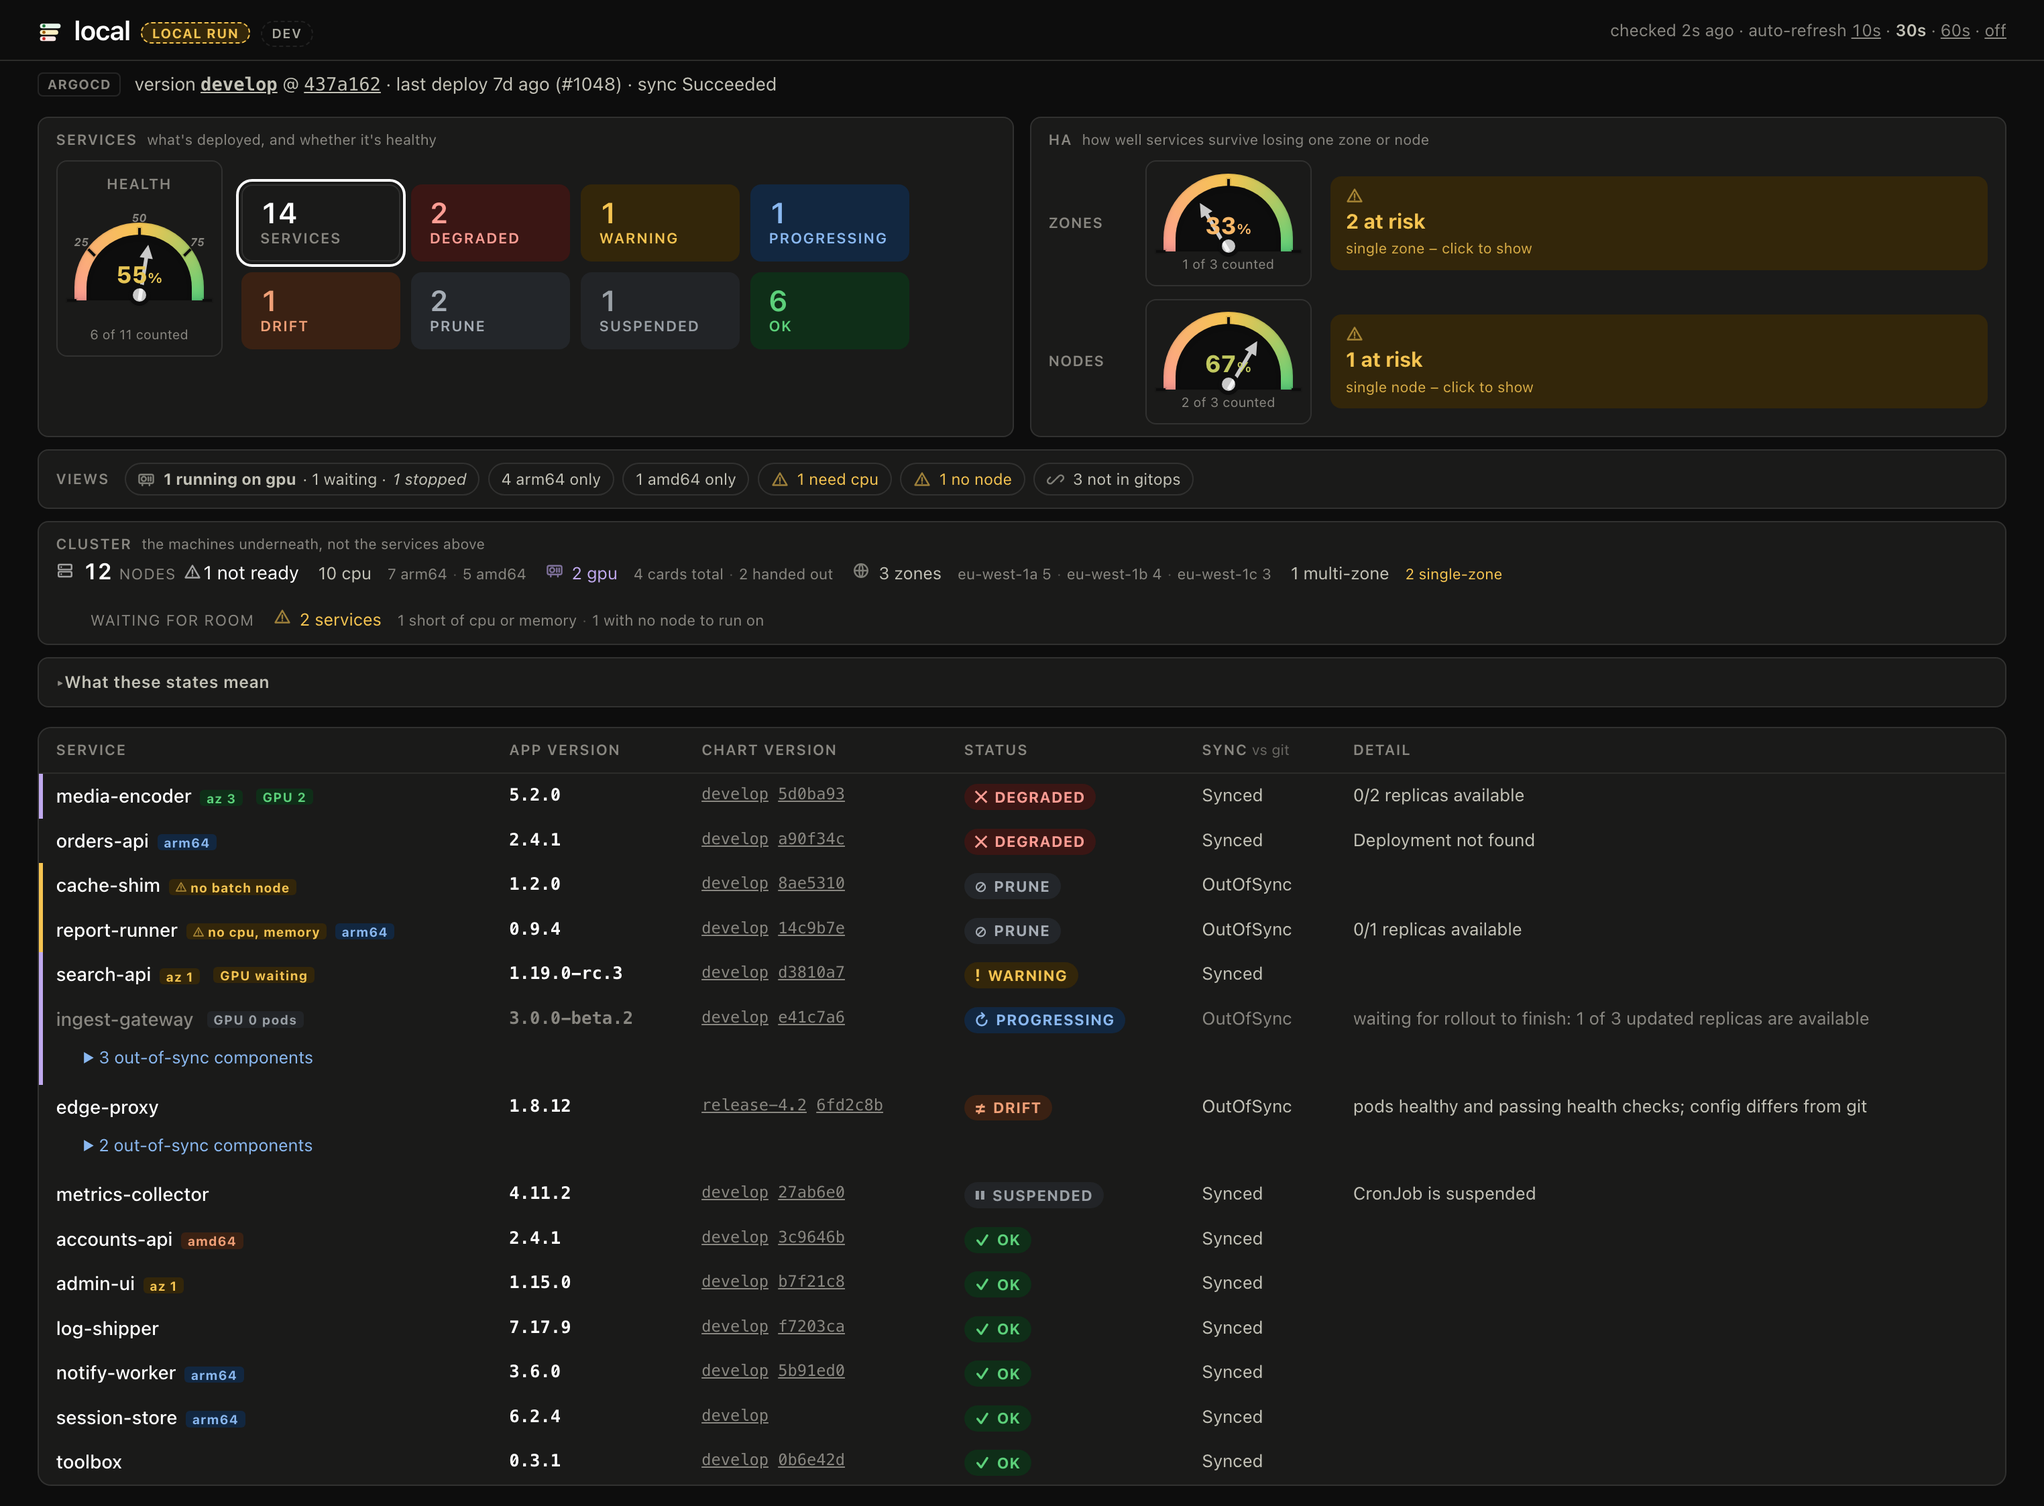
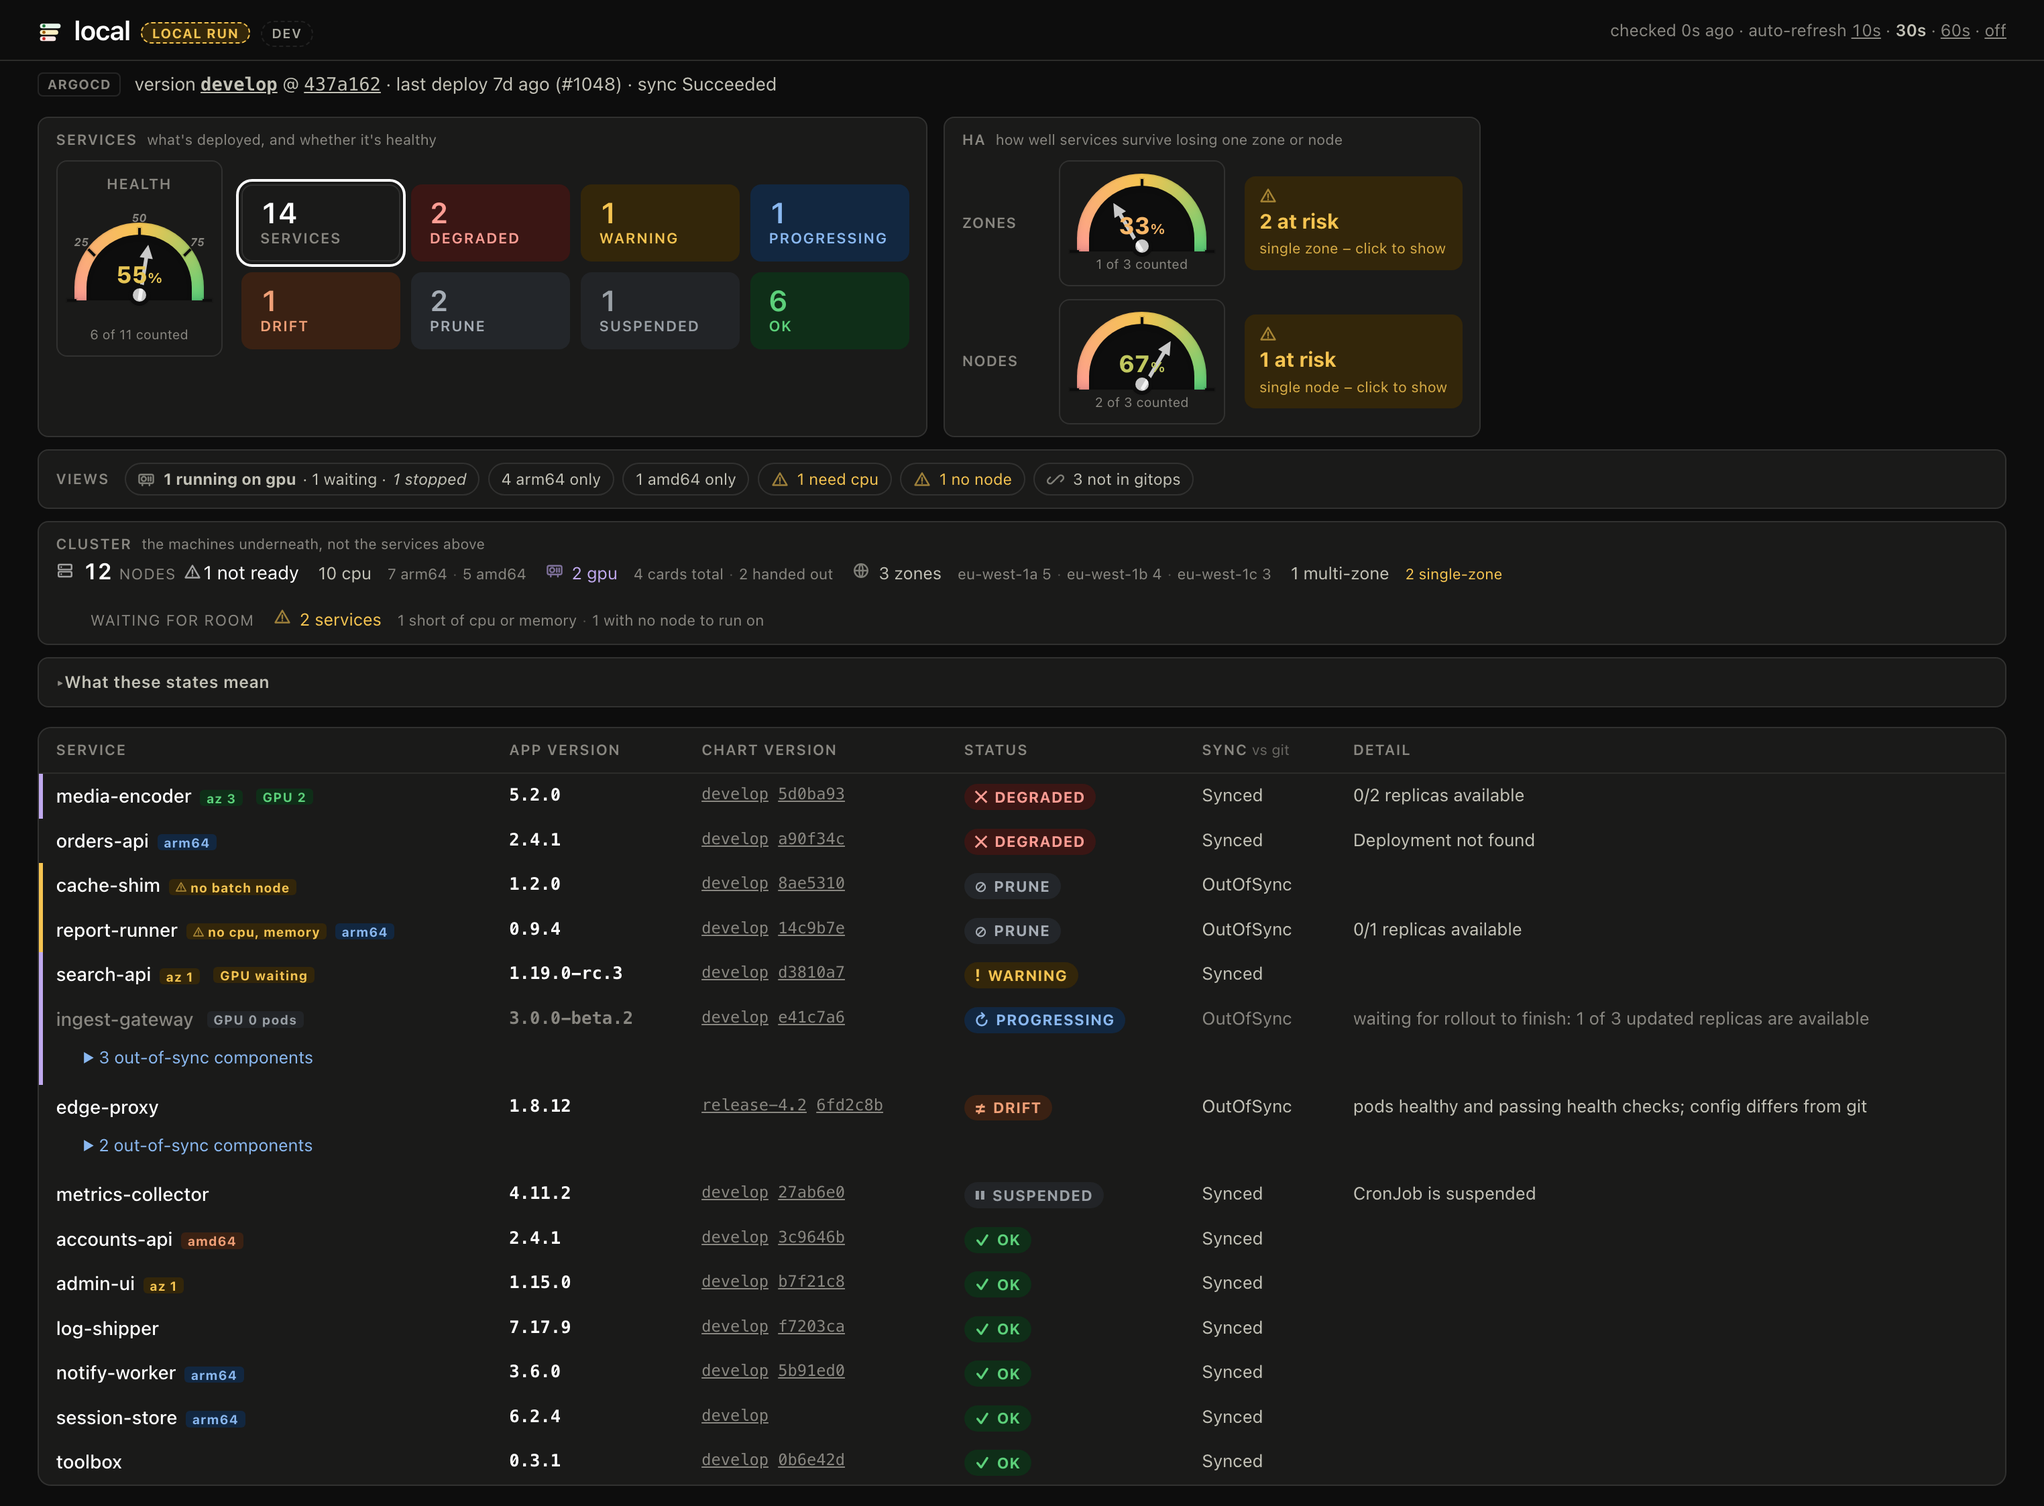
feat: redesign Health/HA layout with a bigger Health gauge
Health and HA now live inside one Services panel as two inset
sub-areas instead of two separate outer panels, each panel hugging
its own content instead of splitting the row evenly. Health's gauge
is enlarged for presentation; its needle now sweeps in from
horizontal on load/refresh via a pure-CSS keyframe animation (no JS),
respecting prefers-reduced-motion.

The at-risk indicator is now a plain .tile (t-warning/t-ok), the
same size as the Services tiles, instead of a bespoke wide box --
dropped the redundant 'click to show' caption text, kept as a
tooltip. Fixed a real bug along the way: .tile.is-on unconditionally
reset background to --surface, silently stripping a colored tile's
tint the moment it was clicked.

Changed region(s): [[0.5299, 0.0935, 0.9974, 0.2805]]

diff --git a/internal/web/templates/index.html b/internal/web/templates/index.html
@@ -117,11 +117,31 @@ h1 { font-size: 1.25rem; font-weight: 600; margin: 0; letter-spacing: -.01em;
 
 /* One bordered .panel per summary group (Services today; Availability/Security etc.
    can join as sibling .panel elements later without restructuring this row). */
-.panel-row { display: flex; flex-wrap: wrap; gap: .75rem; margin: .9rem 0 .35rem; }
-.panel { flex: 1 1 380px; box-sizing: border-box; background: var(--surface);
+.panel-row { display: flex; flex-wrap: wrap; justify-content: flex-start; gap: .75rem;
+             margin: .9rem 0 .35rem; }
+/* flex-grow: 0 -- panels hug their own content instead of stretching to split the row
+   evenly. Two narrow panels sit next to each other with leftover row space after the
+   last one, not distributed as dead space inside each. min-width is the mobile floor;
+   flex-shrink still lets a panel narrow (then wrap) on a small viewport. */
+.panel { flex: 0 1 auto; min-width: 380px; box-sizing: border-box; background: var(--surface);
          border: 1px solid var(--ring); border-radius: 8px; padding: .55rem .8rem; }
+/* Health and HA are both about services, so they live inside one Services panel as
+   two sub-areas. Each gets its own inset box rather than a divider line between them:
+   a border-left reads fine side by side but dangles disconnected once a narrow
+   viewport wraps them onto separate rows, where a box still reads correctly either
+   way. --plane (the page background, not --surface's card tone) is what .hd-mask
+   already uses for the same "recessed within this card" look. */
+.areas { display: flex; flex-wrap: wrap; gap: .9rem; margin-top: .5rem; }
+.area {
+  display: flex; flex-direction: column;
+  background: var(--plane); border: 1px solid var(--ring); border-radius: 8px;
+  padding: .55rem .8rem;
+}
 .tiles-row { display: flex; align-items: stretch; justify-content: flex-start; gap: .9rem;
              margin-top: .45rem; }
+/* Health's gauge is now taller (gauge-lg) than the tile stack beside it -- stretch
+   would just pad blank space under the tiles instead of aligning them to its top. */
+.tiles-row.is-top { align-items: flex-start; }
 .tiles-stack { display: flex; flex-direction: column; gap: .5rem; margin: 1.1rem 0 .35rem; }
 .tiles { display: flex; flex-wrap: wrap; gap: .5rem; }
 .tile {
@@ -195,12 +215,6 @@ h1 { font-size: 1.25rem; font-weight: 600; margin: 0; letter-spacing: -.01em;
   background: var(--surface);
   border: 1px solid var(--ring);
 }
-.gauge .hd-title {
-  /* Matches .cap-head/.views-lab exactly: this is the same "eyebrow label" role as
-     CLUSTER and VIEWS, not a one-off style. */
-  font-size: .68rem; font-weight: 600; letter-spacing: .07em; text-transform: uppercase;
-  color: var(--muted); margin-bottom: .3rem;
-}
 .gauge .hd-face {
   position: relative; width: 100%; height: 58px;
 }
@@ -247,8 +261,18 @@ h1 { font-size: 1.25rem; font-weight: 600; margin: 0; letter-spacing: -.01em;
      translucent dark keeps contrast everywhere while staying secondary to the number. */
   background: color-mix(in srgb, var(--ink) 78%, transparent);
   transform-origin: bottom center;
-  transform: rotate(calc(var(--pct) * 1.8deg - 90deg));
+  /* Sweeps from horizontal up to --pct's angle rather than snapping there: "to" reads
+     the same var()/calc() the static angle would, so each gauge animates toward its
+     own value with no JS to set it after the fact. `both` holds that end frame. */
+  animation: hd-sweep .8s cubic-bezier(.22, 1, .36, 1) both;
   filter: drop-shadow(0 2px 2px rgba(0,0,0,.3));
+}
+@keyframes hd-sweep {
+  from { transform: rotate(-90deg); }
+  to   { transform: rotate(calc(var(--pct) * 1.8deg - 90deg)); }
+}
+@media (prefers-reduced-motion: reduce) {
+  .gauge .hd-needle { animation: none; transform: rotate(calc(var(--pct) * 1.8deg - 90deg)); }
 }
 .gauge .hd-pivot {
   position: absolute; left: 50%; bottom: -1px; width: 10px; height: 10px;
@@ -280,33 +304,51 @@ h1 { font-size: 1.25rem; font-weight: 600; margin: 0; letter-spacing: -.01em;
 .gauge.is-unknown .hd-needle, .gauge.is-unknown .hd-pivot { background: var(--muted); filter: none; }
 .gauge.is-unknown .hd-num { color: var(--muted); }
 
-/* The gauge's own percentage only says how many are at risk, not which -- risk-link
-   is what actually answers that, by filtering the table to those exact rows. */
-.risk-box { flex: 1 1 auto; display: flex; align-items: center; min-width: 0; }
-a.risk-link {
-  display: flex; flex-direction: column; gap: .1rem;
-  padding: .5rem .7rem; border-radius: 8px; width: 100%; box-sizing: border-box;
-  background: var(--warn-bg); color: var(--warn-fg);
-  text-decoration: none; font-weight: 700; font-size: .95rem;
-}
-a.risk-link:hover { text-decoration: none; box-shadow: 0 0 0 1px var(--warn-fg); }
-a.risk-link.is-on { outline: 2px solid var(--warn-fg); outline-offset: 2px; }
-a.risk-link .risk-sub { font-weight: 400; font-size: .68rem; text-transform: none;
-                        letter-spacing: 0; opacity: .85; }
-.risk-ok { color: var(--muted); font-size: .82rem; display: flex; align-items: center; gap: .35rem; }
+/* Health is the one gauge worth a bigger presentation -- it is the headline number
+   for the whole page, not one of several equal-weight spread checks. Every value
+   below is the base gauge's own value scaled by the same ~1.6x, so the geometry
+   (arc radius, needle length, mask insets) stays proportional rather than drifting. */
+.gauge.gauge-lg { width: 200px; padding: .75rem 1.05rem .7rem; }
+.gauge.gauge-lg .hd-face { height: 92px; }
+.gauge.gauge-lg .hd-arc { border-radius: 173px 173px 0 0; }
+.gauge.gauge-lg .hd-tick { height: 86px; }
+.gauge.gauge-lg .hd-tick::after { height: 11px; }
+.gauge.gauge-lg .hd-scale { top: -16px; margin-left: -9px; width: 18px; font-size: .62rem; }
+.gauge.gauge-lg .hd-mask { left: 14px; right: 14px; top: 14px; border-radius: 147px 147px 0 0; }
+.gauge.gauge-lg .hd-needle { width: 16px; height: 67px; margin-left: -8px; }
+.gauge.gauge-lg .hd-pivot { width: 16px; height: 16px; margin-left: -8px; }
+.gauge.gauge-lg .hd-num { bottom: 18px; font-size: 1.75rem; }
+.gauge.gauge-lg .hd-cap { font-size: .75rem; margin-top: .25rem; }
+
+/* The gauge's own percentage only says how many are at risk, not which -- the at-risk
+   tile is what actually answers that, by filtering the table to those exact rows.
+   It is a plain .tile (t-warning/t-ok), the same size as the Services ones, not a
+   bespoke wide box: consistent sizing beats a second, differently-shaped component
+   for what is still just "a number with a filter behind it". */
 .ha-rows { display: flex; flex-direction: column; gap: .6rem; margin-top: .45rem; }
-.ha-rows .tiles-row { margin-top: 0; }
-.spread-lab { flex: none; width: 3.6rem; align-self: center;
-              font-size: .68rem; font-weight: 600; letter-spacing: .05em; text-transform: uppercase;
-              color: var(--muted); }
+/* center, not stretch: the at-risk tile keeps its natural Services-tile height
+   instead of being pulled edge-to-edge to match the gauge's taller face. */
+.ha-rows .tiles-row { margin-top: 0; align-items: center; }
+.spread-lab {
+  /* Top-aligned, not centered: lines up with the gauge card's own top padding (.55rem)
+     so the label reads as its header even when a taller sibling (Services' two-row
+     tile stack) stretches the row -- centered, it floated alone in empty space. */
+  flex: none; width: 3.6rem; align-self: flex-start; margin-top: .55rem;
+  font-size: .68rem; font-weight: 600; letter-spacing: .05em; text-transform: uppercase;
+  color: var(--muted);
+}
 
 a.tile { display: block; text-decoration: none; color: inherit; }
 a.tile:hover { text-decoration: none; box-shadow: 0 0 0 1px var(--ring); }
+/* Outline only, never a background override: .tile.t-total is the one tile with no
+   color of its own, so background:var(--surface) here looked like a harmless no-op
+   -- on a colored tile (t-warning, t-degraded, ...) it silently stripped the tint the
+   moment you clicked it. The highlight should say "this is selected", not "this is a
+   different tile now". */
 .tile.is-on, a.cap-item.is-on {
   outline: 2px solid var(--ink); outline-offset: 2px; border-radius: 8px;
   position: relative;
 }
-.tile.is-on { background: var(--surface); }
 .tile.is-on .k::after, a.cap-item.is-on .ck::after { content: " \00d7"; font-weight: 700; }
 .tile.t-total.is-on .k::after { content: none; }
 
@@ -485,10 +527,12 @@ footer { margin-top: 1.6rem; color: var(--muted); font-size: .72rem; }
      to count only the filtered rows: every other tile would read 0 as soon as one filter
      is applied and the reader would lose their bearings. Filtering picks rows, not counts. */}}
 <div class="cap-head">Services<span class="cap-sub">what's deployed, and whether it's healthy</span></div>
-<div class="tiles-row">
+<div class="areas">
+<div class="area">
+<div class="cap-head">Health</div>
+<div class="tiles-row is-top">
 {{with .Health}}
-<div class="gauge{{if not .Known}} is-unknown{{end}}"{{if .Known}} style="--pct: {{.Percent}}"{{end}} title="{{if .Known}}{{.Percent}}% healthy &middot; {{.OK}} of {{.Counted}} counted{{if .Excluded}} &middot; {{.Excluded}} excluded{{end}}{{else}}no services counted{{end}}">
-  <span class="hd-title">Health</span>
+<div class="gauge gauge-lg{{if not .Known}} is-unknown{{end}}"{{if .Known}} style="--pct: {{.Percent}}"{{end}} title="{{if .Known}}{{.Percent}}% healthy &middot; {{.OK}} of {{.Counted}} counted{{if .Excluded}} &middot; {{.Excluded}} excluded{{end}}{{else}}no services counted{{end}}">
   <div class="hd-face">
     <div class="hd-arc"></div>
     <i class="hd-tick" style="transform: rotate(-90deg)"></i>
@@ -516,7 +560,7 @@ footer { margin-top: 1.6rem; color: var(--muted); font-size: .72rem; }
 </div>
 </div>
 {{with $.Snapshot.HA}}
-<div class="panel">
+<div class="area">
   <div class="cap-head">HA<span class="cap-sub">how well services survive losing one zone or node</span></div>
   <div class="ha-rows">
     <div class="tiles-row">
@@ -533,13 +577,11 @@ footer { margin-top: 1.6rem; color: var(--muted); font-size: .72rem; }
         </div>
         <span class="hd-cap">{{if .Known}}{{.Compliant}} of {{.Eligible}} counted{{else}}no services counted{{end}}</span>
       </div>
-      <div class="risk-box">
-        {{if .AtRisk}}
-        <a class="risk-link{{if $.FilterActive "spread" "zone"}} is-on{{end}}" href="{{$.FilterHref "spread" "zone"}}" title="Show the {{.AtRisk}} service{{if ne .AtRisk 1}}s{{end}} whose running pods all sit in one availability zone -- that zone going down takes them out completely.">{{icon "warn"}}{{.AtRisk}} at risk<span class="risk-sub">single zone &ndash; click to show</span></a>
-        {{else if .Known}}
-        <span class="risk-ok">&#10003; no single-zone services</span>
-        {{end}}
-      </div>
+      {{if .AtRisk}}
+      <a class="tile t-warning{{if $.FilterActive "spread" "zone"}} is-on{{end}}" href="{{$.FilterHref "spread" "zone"}}" title="{{.AtRisk}} at risk: every running pod, across both services and not-in-gitops workloads, sits in one availability zone -- that zone going down takes them out completely. Click to show which."><div class="n">{{.AtRisk}}</div><div class="k">at risk</div></a>
+      {{else if .Known}}
+      <div class="tile t-ok"><div class="n">0</div><div class="k">at risk</div></div>
+      {{end}}
     </div>
     {{end}}
     {{with $.Snapshot.NodeHA}}
@@ -557,16 +599,16 @@ footer { margin-top: 1.6rem; color: var(--muted); font-size: .72rem; }
         </div>
         <span class="hd-cap">{{if .Known}}{{.Compliant}} of {{.Eligible}} counted{{else}}no services counted{{end}}</span>
       </div>
-      <div class="risk-box">
-        {{if .AtRisk}}
-        <a class="risk-link{{if $.FilterActive "spread" "node"}} is-on{{end}}" href="{{$.FilterHref "spread" "node"}}" title="Show the {{.AtRisk}} service{{if ne .AtRisk 1}}s{{end}} whose running pods all sit on one node -- that node failing or draining takes them out completely.">{{icon "warn"}}{{.AtRisk}} at risk<span class="risk-sub">single node &ndash; click to show</span></a>
-        {{else if .Known}}
-        <span class="risk-ok">&#10003; no single-node services</span>
-        {{end}}
-      </div>
+      {{if .AtRisk}}
+      <a class="tile t-warning{{if $.FilterActive "spread" "node"}} is-on{{end}}" href="{{$.FilterHref "spread" "node"}}" title="{{.AtRisk}} at risk: every running pod, across both services and not-in-gitops workloads, sits on one node -- that node failing or draining takes them out completely. Click to show which."><div class="n">{{.AtRisk}}</div><div class="k">at risk</div></a>
+      {{else if .Known}}
+      <div class="tile t-ok"><div class="n">0</div><div class="k">at risk</div></div>
+      {{end}}
     </div>
     {{end}}
   </div>
+</div>
+</div>
 </div>
 </div>
 <div class="views">
@@ -774,7 +816,9 @@ footer { margin-top: 1.6rem; color: var(--muted); font-size: .72rem; }
 {{if .Filter.ShowUnmanaged}}{{with .Snapshot.Unmanaged}}
 <div class="sec-head" id="unmanaged">Not managed by ArgoCD
   <span class="sec-sub">running in the cluster but outside GitOps, EKS addons, Terraform-installed
-  components, hand-installed Helm releases. These are not services above and are not in any count there.</span>
+  components, hand-installed Helm releases. These are not services above and are not in the Services counts --
+  the HA gauge's spread numbers are the one place they are folded in, since a zone or node can take them down
+  exactly like any tracked service.</span>
 </div>
 <div class="card">
 <table>
@@ -790,18 +834,18 @@ footer { margin-top: 1.6rem; color: var(--muted); font-size: .72rem; }
 </tr>
 </thead>
 <tbody>
-{{range .Items}}
+{{range $.Unmanaged}}
 <tr>
   <td class="ns">{{.Namespace}}</td>
   <td class="kind">{{.Kind}}</td>
-  <td class="name">{{.Name}}{{if gt .Members 1}}<span class="members" title="{{.Members}} workloads in this Helm release, collapsed into one row">{{.Members}} workloads</span>{{end}}</td>
+  <td class="name">{{.Name}}{{if gt .Members 1}}<span class="members" title="{{.Members}} workloads in this Helm release, collapsed into one row">{{.Members}} workloads</span>{{end}}{{if .Zones.Known}}<span class="az{{if eq .Zones.Count 1}} is-single{{else}} is-multi{{end}}" title="Running pods sit in {{.Zones.Count}} availability zone{{if ne .Zones.Count 1}}s{{end}}{{if .Zones.Unplaced}}; {{.Zones.Unplaced}} pod{{if ne .Zones.Unplaced 1}}s{{end}} could not be placed to a zone{{end}}: {{range $i, $z := .Zones.Zones}}{{if $i}}, {{end}}{{$z}}{{end}}.">az {{.Zones.Count}}</span>{{end}}</td>
   <td class="by hide-sm{{if eq .ManagedBy "unknown"}} is-unknown{{end}}">{{.ManagedBy}}</td>
   <td class="appver hide-sm">{{if .Version}}<span title="{{.Image}}">{{clip 28 .Version}}</span>{{end}}</td>
   <td class="ready">{{.Ready}}/{{.Desired}}</td>
   <td><span class="pill s-{{lower (printf "%s" .State)}}"><span class="g">{{glyph (printf "%s" .State)}}</span>{{.State}}</span></td>
 </tr>
 {{else}}
-<tr><td colspan="7" class="detail">{{if .Error}}no workloads read{{else}}every workload in the cluster is managed by ArgoCD{{end}}</td></tr>
+<tr><td colspan="7" class="detail">{{if $.Filter.Spread}}no not-in-gitops workloads are single-{{$.Filter.Spread}}{{else if .Error}}no workloads read{{else}}every workload in the cluster is managed by ArgoCD{{end}}</td></tr>
 {{end}}
 </tbody>
 </table>
